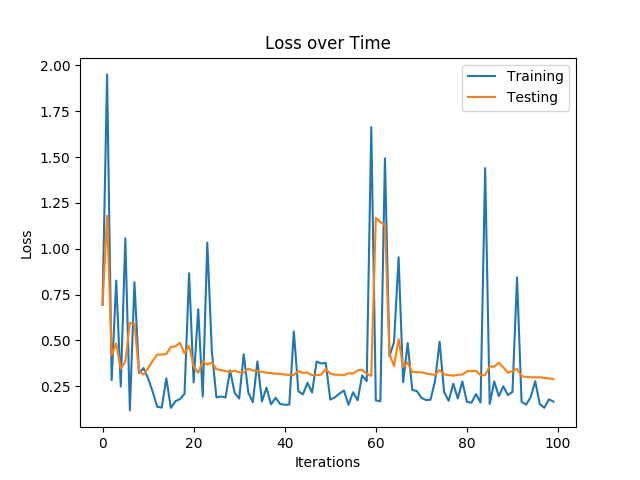
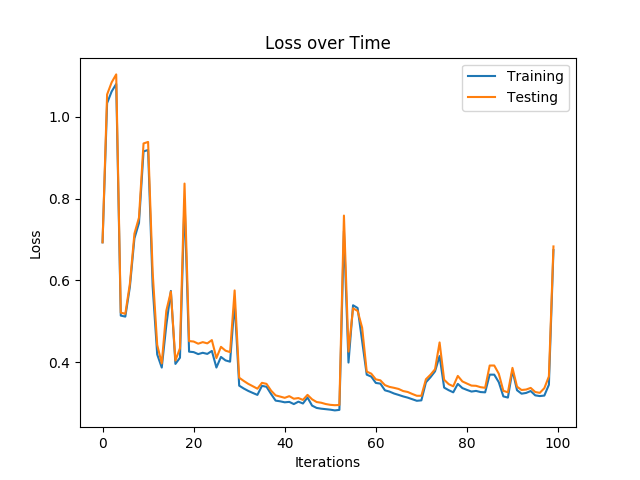
better looking graphs

diff --git a/hw2-code/src/binary-logistic.py b/hw2-code/src/binary-logistic.py
@@ -89,7 +89,7 @@ class GradientDescent:
       train_class_data.append(self.get_error(X_train, Y_train))
       test_class_data.append(self.get_error(X_test, Y_test))
 
-      if np.max(np.abs(grad_w)) < cutoff:
+      if max(np.max(np.abs(grad_w)), grad_b) < cutoff:
         break
 
     return train_j_data, test_j_data, train_class_data, test_class_data
@@ -155,7 +155,8 @@ class StochasticGradientDescent:
       X_batch = X_train[indices]
       Y_batch = Y_train[indices]
 
-      train_j_func, grad_w, grad_b = self.get_j(X_batch, Y_batch)
+      _, grad_w, grad_b = self.get_j(X_batch, Y_batch)
+      train_j_func, _, _ = self.get_j(X_train, Y_train)
       test_j_func, _, _ = self.get_j(X_test, Y_test)
 
       self.w = self.w - (self.step * grad_w)
@@ -163,10 +164,10 @@ class StochasticGradientDescent:
 
       train_j_data.append(train_j_func[0][0])
       test_j_data.append(test_j_func[0][0])
-      train_class_data.append(self.get_error(X_batch, Y_batch))
+      train_class_data.append(self.get_error(X_train, Y_train))
       test_class_data.append(self.get_error(X_test, Y_test))
 
-      if np.max(np.abs(grad_w)) < cutoff:
+      if max(np.max(np.abs(grad_w)), grad_b) < cutoff:
         break
 
     return train_j_data, test_j_data, train_class_data, test_class_data

diff --git a/hw2-code/src/lasso.py b/hw2-code/src/lasso.py
@@ -18,5 +18,10 @@ class Lasso:
   def __init__(self, reg_lambda):
     self.lamb = reg_lambda
 
+    while 
+
+  def generate_synthetic_data(self, n, d, k, variance):
+    print("generating synthetic data")
+
 if __name__ == "__main__":
   main()
